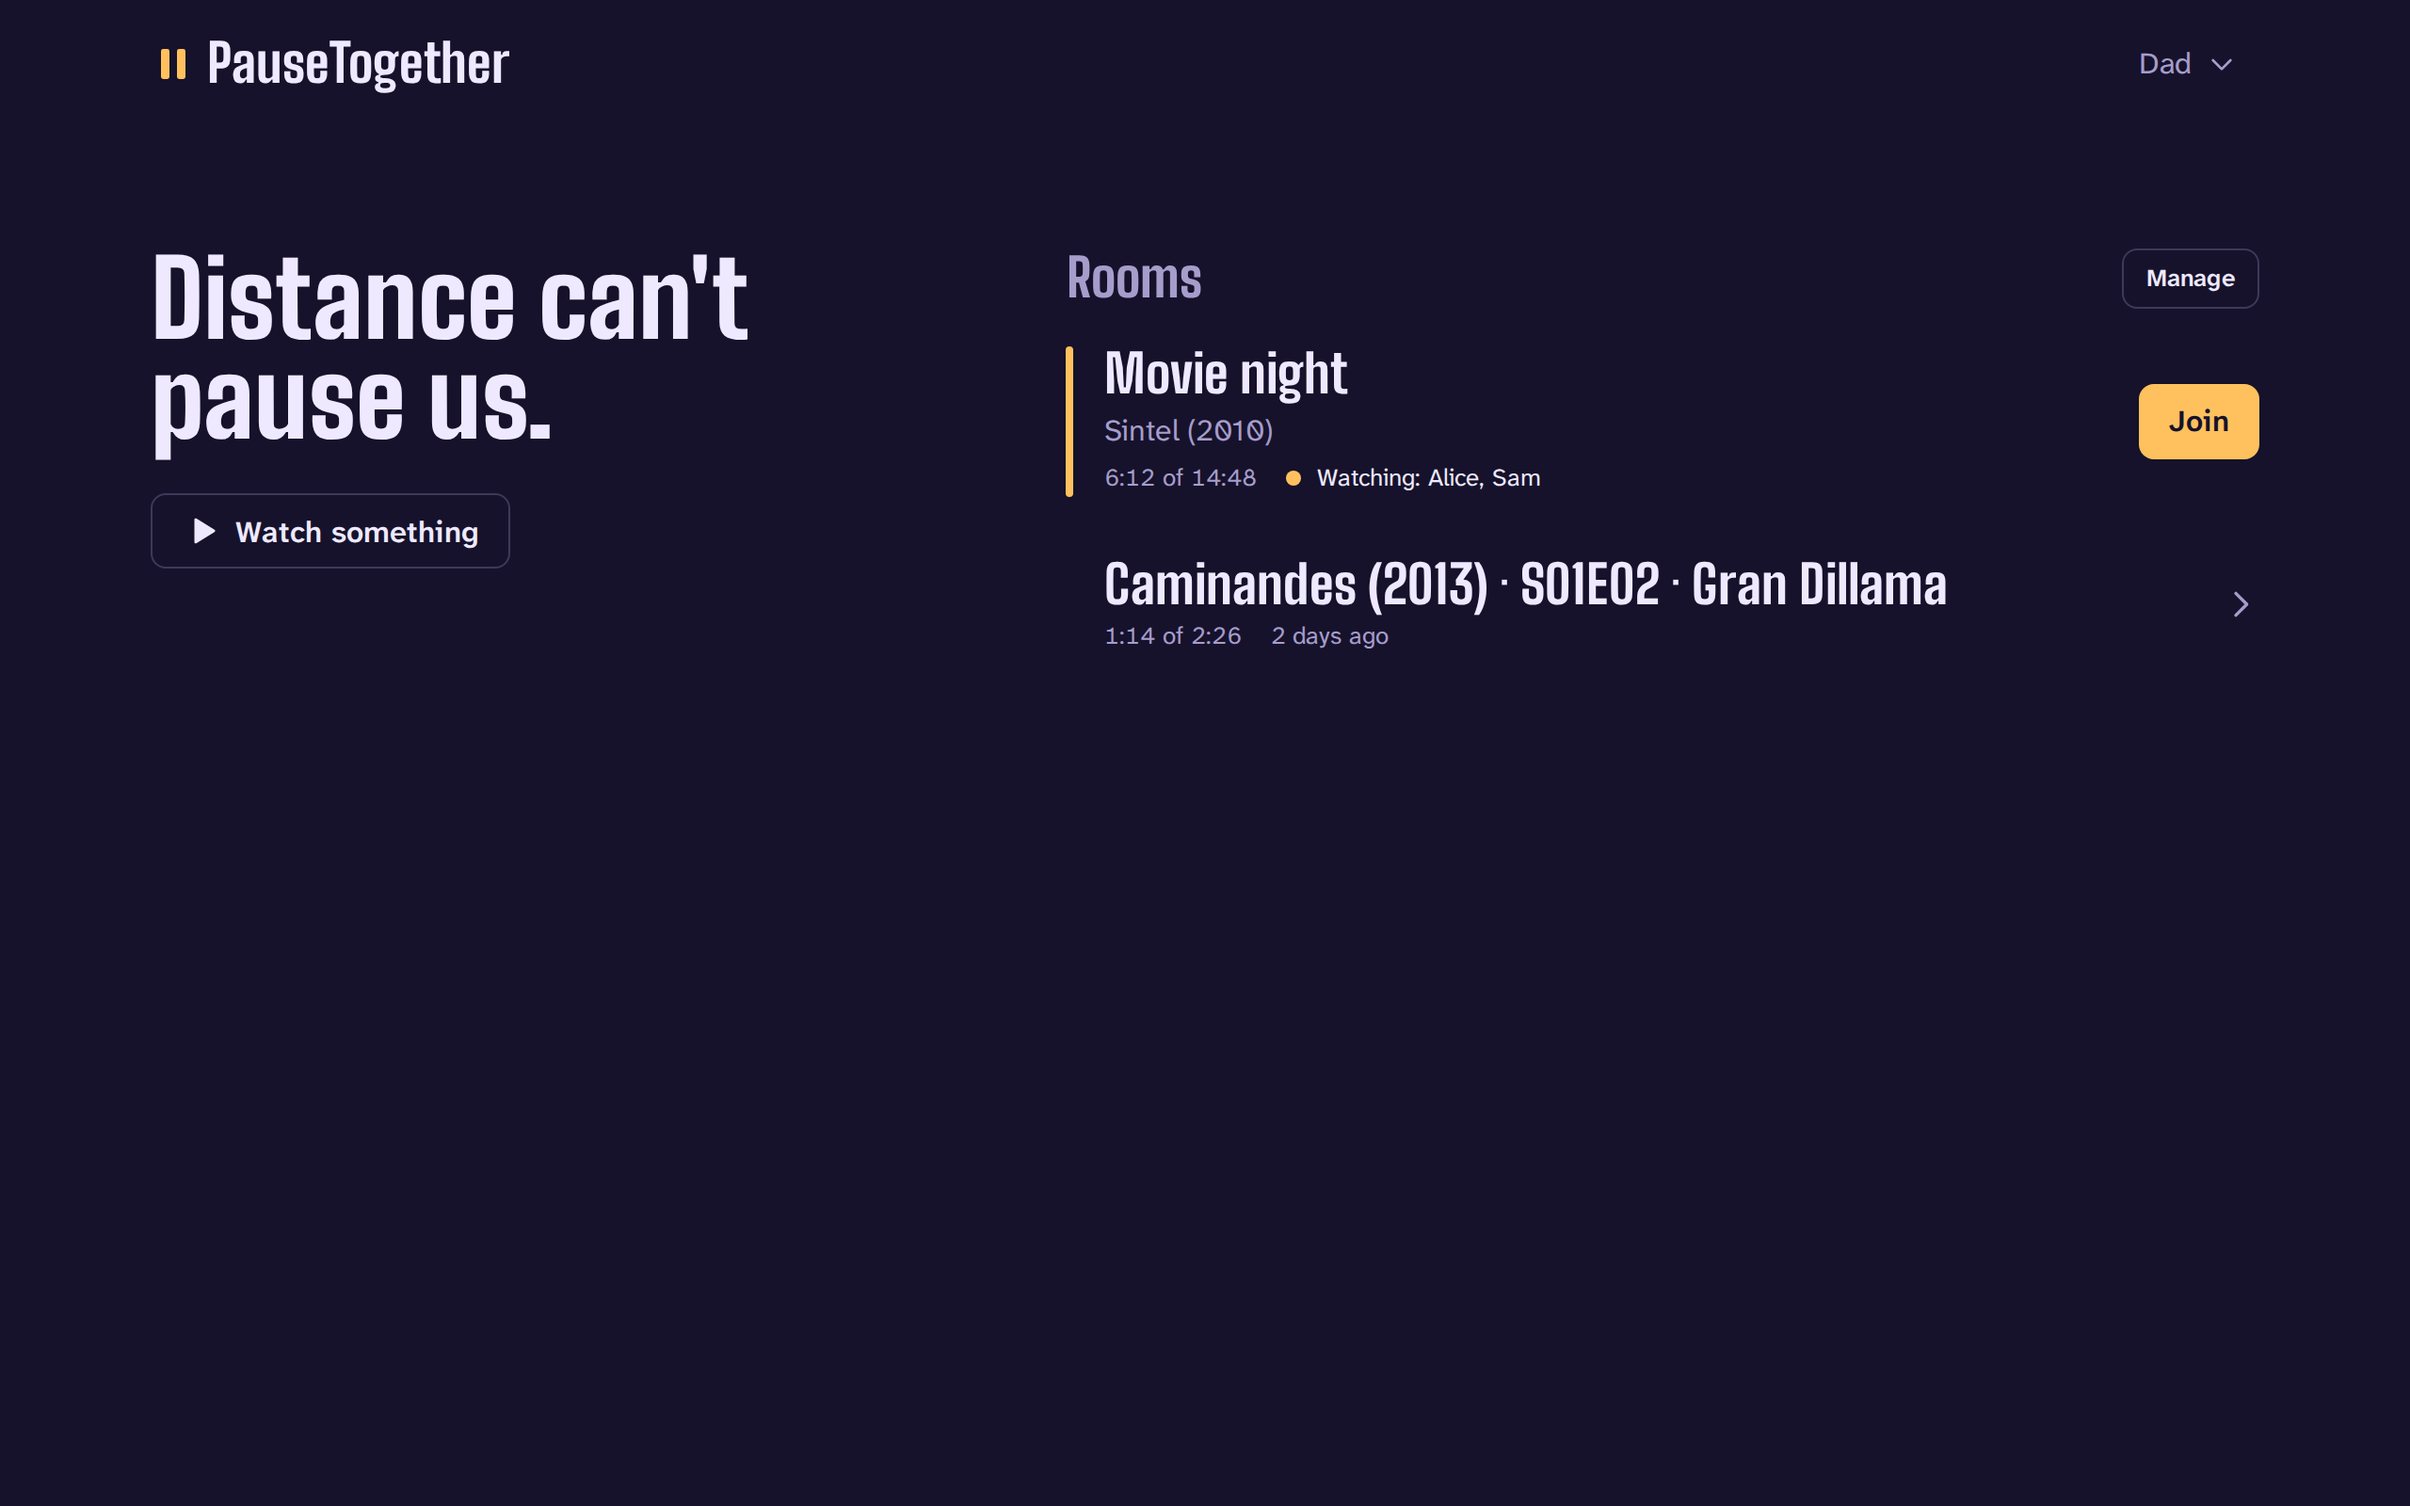
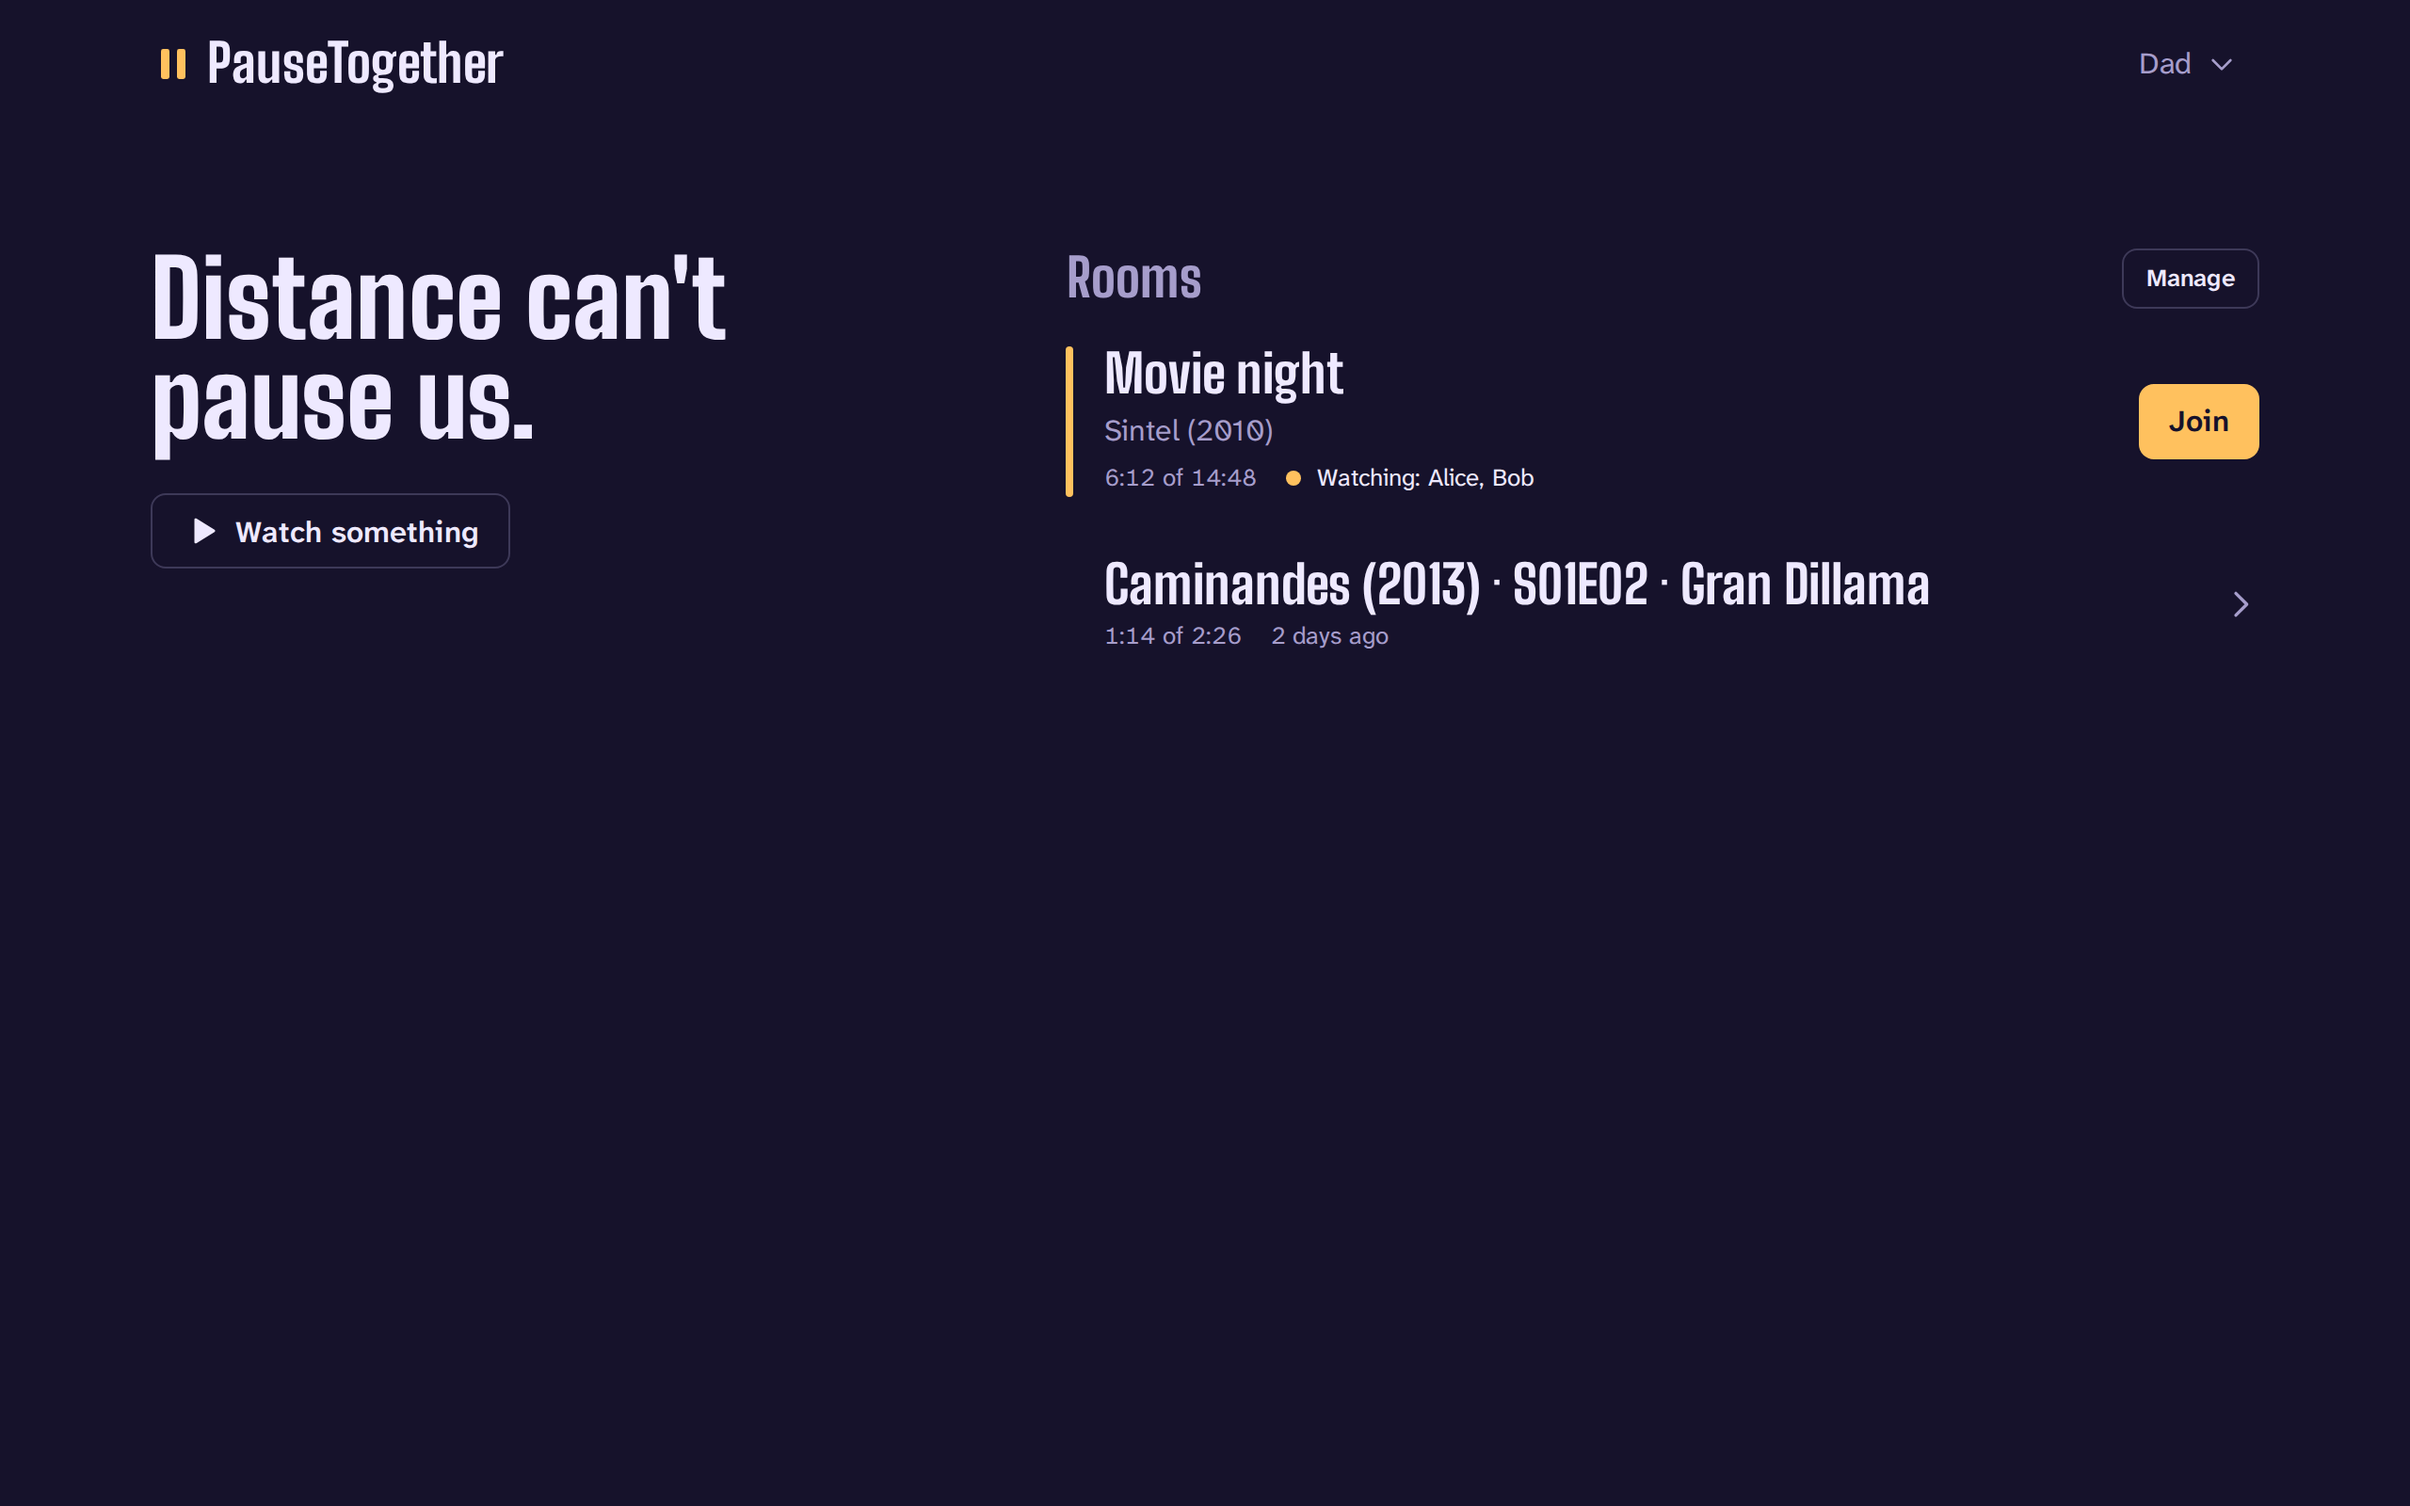
docs(demo): show seeking, subtitles and waiting, retake screenshots
The demo now also drags the seek bar, sets subtitles for everyone and
their size on one screen, and locks Bob's phone so the room waits for
him. Big Buck Bunny has no dialogue, so made-up sound captions ride
along. 12 fps at quality 60 keeps the longer demo at 7.8 MB. Sam
becomes Bob, one of the agreed placeholder names.

diff --git a/README.md b/README.md
@@ -8,7 +8,7 @@ A self-hosted watch-together app. Same show. Same second. Different places.
 
 [Features](#features) • [Screenshots](#screenshots) • [How it works](#how-it-works) • [Getting started](#getting-started) • [Tailscale](#connecting-devices-with-tailscale) • [Development](#development)
 
-<img src="docs/demo.webp" width="900" alt="Alice on a laptop and Sam on a phone in one room. Alice presses play and both screens play the same frame. Sam pauses, and both stop, with &quot;Sam paused&quot; on Alice's screen. Alice's chat message shows up on Sam's phone, and Sam presses play for both." />
+<img src="docs/demo.webp" width="900" alt="Alice on a laptop and Bob on a phone in one room. Alice presses play and both screens play the same frame. She drags the seek bar, and Bob's phone jumps with her, saying &quot;Alice jumped to 4:02&quot;. She turns on English subtitles for both, sets them a little later, and makes them bigger on her laptop only. Bob's phone locks: 3 seconds later the room pauses, with &quot;Waiting for Bob&quot; on Alice's screen, and plays on when he's back. Alice's chat message shows up on Bob's phone." />
 
 <sub>Film: <a href="https://peach.blender.org">Big Buck Bunny</a> © Blender Foundation, CC BY 3.0.</sub>
 
@@ -45,7 +45,7 @@ watch in sync from PCs, tablets and phones. When one of them buffers or steps aw
 
 <table>
   <tr>
-    <td width="50%"><img src="docs/screenshots/home.png" alt="The homepage: a room called Movie night with Alice and Sam watching Sintel at 6:12, a Join button, and a Caminandes episode room last used 2 days ago." /></td>
+    <td width="50%"><img src="docs/screenshots/home.png" alt="The homepage: a room called Movie night with Alice and Bob watching Sintel at 6:12, a Join button, and a Caminandes episode room last used 2 days ago." /></td>
     <td width="50%"><img src="docs/screenshots/picker.png" alt="The video picker: search, sort, tabs for Movies, TV Shows and Other Videos, and Sintel marked as in a room at 6:12." /></td>
   </tr>
   <tr>
@@ -53,7 +53,7 @@ watch in sync from PCs, tablets and phones. When one of them buffers or steps aw
     <td align="center"><sub><b>Picker.</b> A video that already has a room says so.</sub></td>
   </tr>
   <tr>
-    <td><img src="docs/screenshots/welcome.png" alt="The first visit to a room link: what the app is, You're joining Movie night, and What should we call you?" /></td>
+    <td><img src="docs/screenshots/welcome.png" alt="The first visit to a room link: what the app is, Alice and Bob watching Movie night with a Join them, and What should we call you?" /></td>
     <td><img src="docs/screenshots/admin.png" alt="The admin page: the guest link, three libraries, files we can't use grouped by reason, prepare jobs, language defaults and cache clean-up." /></td>
   </tr>
   <tr>

diff --git a/AGENTS.md b/AGENTS.md
@@ -147,7 +147,8 @@ internal/user/       name rules and the name key, users (one per person), tokens
 testdata/make.sh     makes the test clips in testdata/media (git-ignored), one per case the app handles, so
                      DEV_MEDIA_ROOT=testdata/media shows them all (libraries: Movies, TV, Other)
 docs/plan.md         build order in slices, and how to work one
-docs/demo/           task demo: film.sh (downloads Big Buck Bunny into .cache/demo), record.mjs (Playwright:
+docs/demo/           task demo: film.sh (downloads Big Buck Bunny into .cache/demo), subtitles.en.srt (its
+                     made-up captions, copied next to it), record.mjs (Playwright:
                      a throwaway app, a laptop and a phone in one room), webp.sh (both side by side, as an animated WebP);
                      task screenshots: library.sh (Blender's films as grey clips, in .cache/screenshots), screenshots.mjs
                      (Playwright: welcome, homepage, picker, admin into docs/screenshots); app.mjs (both talk to the app)
